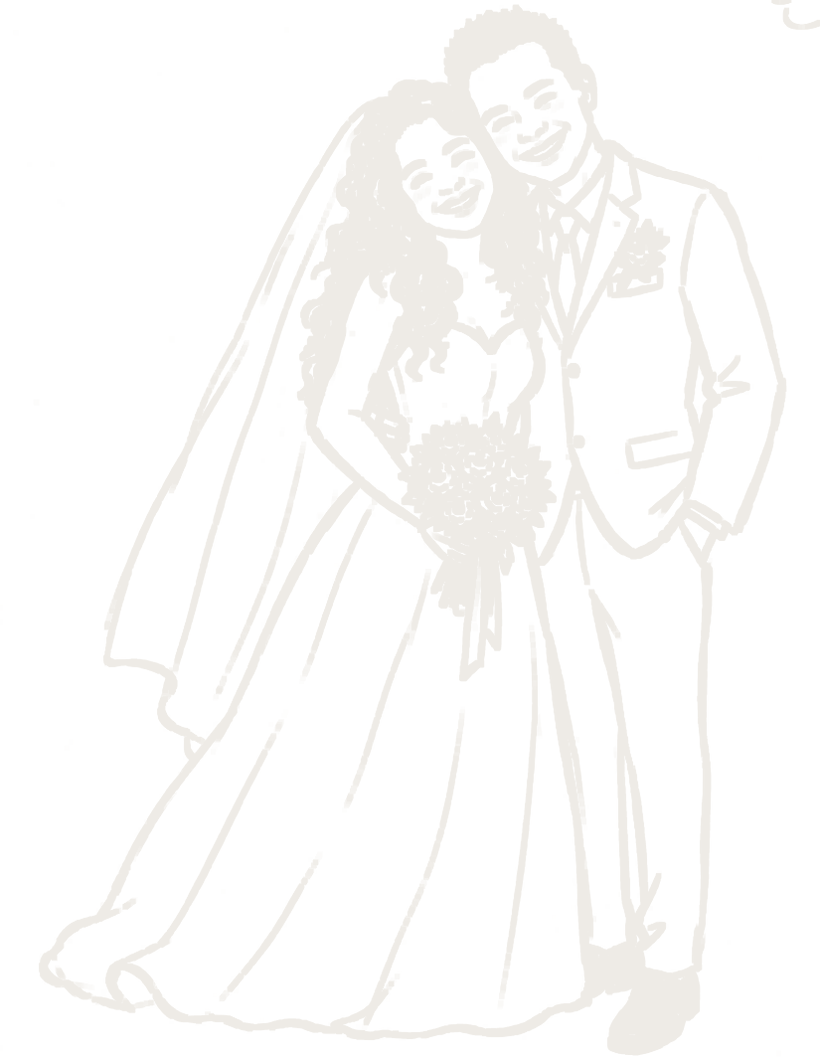
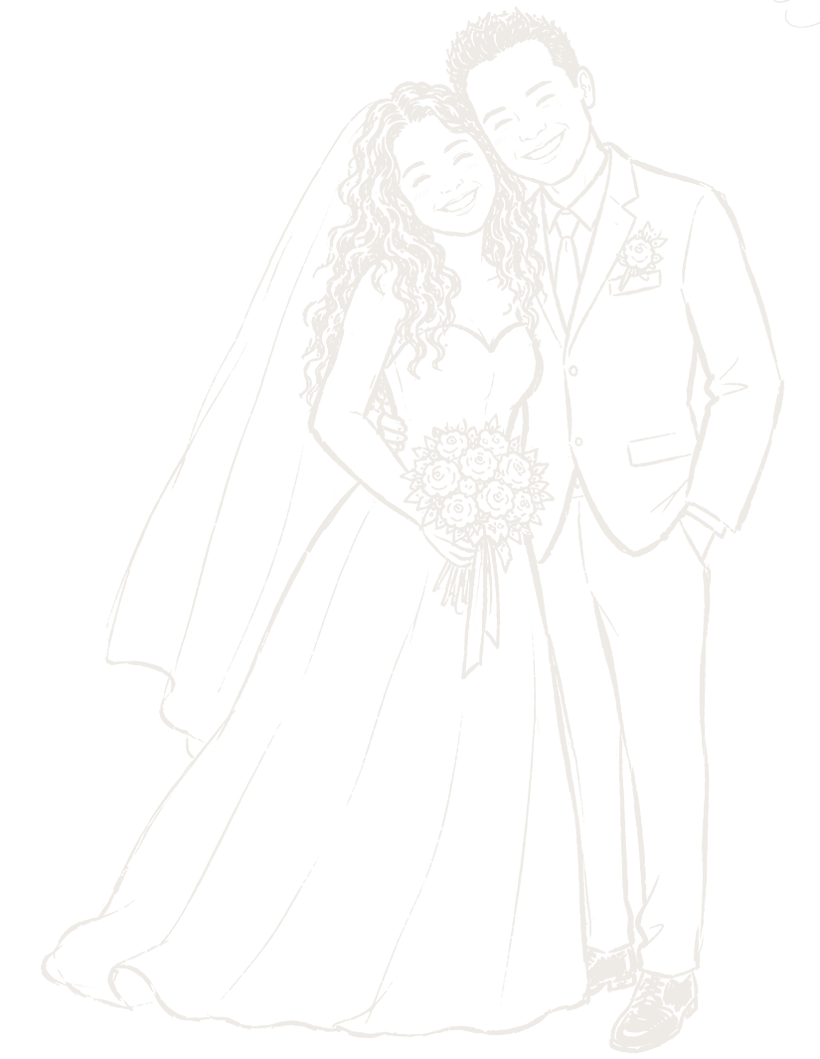
Links bonitos, el trazo fino de la entrada y una página de 404
TRAZO
La ilustración de la entrada vuelve al trazo original, sin engrosar: es
como la prefirieron. A cambio se pinta al 132% en vez del 118%, para que
el velo y el vestido tengan sitio donde leerse a los 132px del
itinerario. Pesa 249 KB en lugar de 199.

LINKS BONITOS
`/paloma-cambron` en vez de `/?i=paloma-cambron`. Lo dije mal antes: esto
no necesita dominio propio, funciona igual en el de Netlify.

Es una reescritura de netlify.toml a /index.html con status 200, así que
la barra de direcciones conserva el link bonito. La regla va al final del
archivo a propósito: Netlify aplica en orden y sirve los archivos que
existen antes de llegar ahí, así que /panel, /robots.txt, /assets/* y
/api/* siguen resolviendo solos. Sólo cae en la regla una ruta de un
tramo que no corresponde a ningún archivo, que es justo la forma de un id.

Como con status 200 no hay query string en el navegador, `personalizar()`
ahora saca el id de la ruta cuando no viene en `?i=`. La forma vieja
sigue funcionando, así que ningún link ya repartido se rompe.

Probado ruta por ruta: /paloma-cambron y /jane-doe personalizan y la
barra conserva el link; /?i=claudia-barrales sigue igual; una ruta
inventada cae en el formulario manual; /panel abre el panel;
/robots.txt y las fotos se sirven; /netlify/* y
/assets/savethedatepics/* siguen en 404.

404
No existía la página, y mis dos reglas de bloqueo apuntaban a /404.html.
Va una en la paleta del sitio, con el monograma y un botón de regreso.
[…]

diff --git a/404.html b/404.html
@@ -1,0 +1,34 @@
+<!doctype html>
+<html lang="es">
+<head>
+<meta charset="utf-8">
+<meta name="viewport" content="width=device-width,initial-scale=1">
+<meta name="robots" content="noindex">
+<title>Jorge &amp; Montse</title>
+<link rel="icon" href="assets/icons/favicon-32.png" sizes="32x32">
+<link rel="stylesheet" href="assets/css/site.css">
+<style>
+  body{min-height:100vh;margin:0;display:flex;align-items:center;justify-content:center;
+       background:#551724;color:#F6F4EE;text-align:center;padding:32px}
+  .caja{display:flex;flex-direction:column;align-items:center;gap:22px;max-width:34ch}
+  .sello{width:52px;height:60px;background:#C9CFB2;
+         -webkit-mask:url('assets/monogram-mark.png') center/contain no-repeat;
+         mask:url('assets/monogram-mark.png') center/contain no-repeat}
+  h1{margin:0;font-family:'Lumiare',sans-serif;font-weight:400;
+     font-size:clamp(28px,5vw,44px);line-height:1.1}
+  p{margin:0;font-family:'NoirEtBlanc',serif;font-size:18px;line-height:1.65;opacity:.88}
+  a{display:inline-block;margin-top:6px;padding:15px 30px 13px;border:1px solid rgba(246,244,238,.45);
+    border-radius:999px;font-family:'NoirEtBlanc',serif;text-transform:uppercase;
+    font-size:14px;letter-spacing:.18em;line-height:1;transition:background .25s,color .25s}
+  a:hover,a:focus-visible{background:#F6F4EE;color:#631B29}
+</style>
+</head>
+<body>
+  <div class="caja">
+    <div class="sello" aria-hidden="true"></div>
+    <h1>Esta página no existe</h1>
+    <p>Puede que el link se haya cortado al copiarlo. Desde la invitación llegas a todo.</p>
+    <a href="/">Ir a la invitación</a>
+  </div>
+</body>
+</html>

diff --git a/index.html b/index.html
@@ -229,9 +229,10 @@
 <!-- La entrada de los novios: el dibujo que hicieron ellos, no un icono.
      Venía en trazo vino sobre papel crema, así que se le quitó el fondo
      por luminancia y se repintó al crema #EEEBE6 de las demás. El trazo
-     se engrosó antes de reducir: a 132px las líneas finas del velo y el
-     vestido se perdían. Original en assets/savethedatepics/. -->
-<img src="assets/ill-couple-entrance-dk.png" alt="" style="max-width:100%;max-height:118%;width:auto;height:auto;display:block">
+     se dejó tal cual, fino, que es como lo prefirieron; a cambio el dibujo
+     se pinta más grande que los demás para que el velo y el vestido se
+     alcancen a leer. Original en assets/savethedatepics/. -->
+<img src="assets/ill-couple-entrance-dk.png" alt="" style="max-width:100%;max-height:132%;width:auto;height:auto;display:block">
 </div><div style="font-family:'NoirEtBlanc',serif;text-transform:uppercase;letter-spacing:.06em;font-size:clamp(18px,1.8vw,25px)">Entrada de los novios</div></div>
 
 <div class="jm-itin-row" data-reveal="1" style="display:grid;grid-template-columns:minmax(84px,132px) clamp(78px,9.5vw,136px) 1fr;gap:clamp(16px,3vw,40px);align-items:center;padding:18px 0;border-top:1px solid rgba(233,229,219,.3)"><div style="font-family:'Blastine',cursive;font-size:clamp(24px,2.7vw,36px);color:#F6F4EE;line-height:1.35">20:30</div><div class="jm-itin-ill" style="display:flex;align-items:center;justify-content:center;height:clamp(78px,9.5vw,132px)">

diff --git a/assets/js/site.js b/assets/js/site.js
@@ -270,9 +270,17 @@
     var caja = $('jm-quien'), campo = $('jm-campo-nombre');
     if (!caja || !campo || !window.fetch) return;
 
+    /* El id puede llegar de dos formas: como ?i=paloma-cambron, o como
+       /paloma-cambron. La segunda es una reescritura de Netlify (status
+       200), así que la barra de direcciones conserva el link bonito y no
+       hay query string que leer: el id viene en la ruta. */
     var id = '';
     try {
       id = (new URLSearchParams(window.location.search).get('i') || '').trim().toLowerCase();
+      if (!id) {
+        var ruta = window.location.pathname.replace(/^\/+|\/+$/g, '').toLowerCase();
+        if (ruta.indexOf('/') === -1 && ruta.indexOf('.') === -1) id = ruta;
+      }
     } catch (e) { return; }
     if (!id || !/^[a-z0-9-]{1,60}$/.test(id)) return;
 

diff --git a/INVITACIONES.md b/INVITACIONES.md
@@ -4,11 +4,23 @@ Uno por invitación. Cada quien recibe el suyo: el sitio lo saluda por su
 nombre, le arma el itinerario que le toca y su confirmación llega ya
 identificada, sin que tenga que escribir su nombre.
 
-El dominio va al principio. Si el sitio queda en `jorgeymontse.com`, el link
-de la primera fila es `https://jorgeymontse.com/?i=jorge-cambron`.
+## Cómo se arma el link
 
-Un link sin `?i=` —o con un id mal copiado— **no se rompe**: el formulario
-vuelve a pedir el nombre a mano, como antes.
+El dominio, diagonal, y el id. Nada más:
+
+```
+https://jorgeymontse.com/paloma-cambron
+https://jorgeymontse.netlify.app/paloma-cambron
+```
+
+Funciona con cualquier dominio, incluido el de Netlify — no hace falta
+comprar uno para que el link se vea así. La barra de direcciones conserva
+el link bonito: por dentro es una reescritura, no un salto.
+
+La forma vieja, `…/?i=paloma-cambron`, sigue funcionando igual.
+
+Un link mal copiado **no se rompe**: el formulario vuelve a pedir el nombre
+a mano, como antes.
 
 ## Cómo leer la columna «civil»
 
@@ -17,18 +29,18 @@ invitación. **Sí** = esa persona ve la ceremonia civil de las 19:30 en su
 itinerario. **No** = ve las fotos con los novios. Quien entre sin link ve lo
 que diga `CONFIG.bodaCivil` en `site.js`, que hoy es «no».
 
-Hoy están todas en «no» porque todavía no se decide. Para cambiar a alguien
-se le pone `civil: true` en `netlify/functions/invitados-datos.mts`.
+Hoy están todas en «no» porque todavía no se decide. Se palomea en la tabla
+de Notion y de ahí lo paso al código.
 
 ## Pruebas
 
-Dos invitaciones de mentiras para que los novios vean las dos versiones del
-itinerario. **Hay que borrarlas antes de publicar en serio.**
+Dos invitaciones de mentiras para ver las dos versiones del itinerario.
+**Hay que borrarlas antes de publicar en serio.**
 
 | Link | Quiénes | Civil |
 |---|---|---|
-| `?i=jane-doe` | Jane Doe, John Doe | **Sí** |
-| `?i=joe-doe` | Joe Doe, Jane Roe | No |
+| `/jane-doe` | Jane Doe, John Doe | **Sí** |
+| `/joe-doe` | Joe Doe, Jane Roe | No |
 
 ## Las de verdad
 
@@ -36,111 +48,111 @@ itinerario. **Hay que borrarlas antes de publicar en serio.**
 
 | # | Link | Se le saluda | Pases | Civil | Quiénes |
 |---|---|---|---|---|---|
-| 1 | `?i=jorge-cambron` | Jorge y Elsa | 2 | No | Jorge Cambrón, Elsa Barrales |
-| 2 | `?i=paulette-cambron` | Paulette | 1 | No | Paulette Cambrón |
-| 3 | `?i=norma-barrales` | Norma | 1 | No | Norma Barrales |
-| 4 | `?i=beatriz-barrales` | Beatriz | 1 | No | Beatriz Barrales |
-| 5 | `?i=mariela-lemus` | Mariela | 1 | No | Mariela Lemus |
-| 6 | `?i=claudia-barrales` | Claudia, Alejandro y Leonardo | 3 | No | Claudia Barrales, Alejandro García, Leonardo |
-| 7 | `?i=mariela-barrales` | Mariela | 1 | No | Mariela Barrales |
-| 8 | `?i=andrea-barrales` | Andrea | 1 | No | Andrea Barrales |
-| 9 | `?i=laura-jandete` | Laura | 1 | No | Laura Jandete |
-| 10 | `?i=juan-alvarez` | Juan | 2 | No | Juan Manuel Álvarez, Invitado |
-| 11 | `?i=juan-alvarez-2` | Juan | 1 | No | Juan Manuel Álvarez |
-| 12 | `?i=martha-barrales` | Martha y Evaristo | 2 | No | Martha Barrales, Evaristo Suárez |
-| 13 | `?i=eduardo-suarez` | Eduardo | 1 | No | Eduardo Suárez |
-| 14 | `?i=victor-suarez` | Victor | 1 | No | Victor Suárez |
-| 15 | `?i=carlos-suarez` | Carlos y Mayela | 2 | No | Carlos Suárez, Mayela |
-| 16 | `?i=maria-melena` | María | 1 | No | María Elena Melena |
-| 17 | `?i=hector-cambron` | Héctor y Blanca | 2 | No | Héctor Cambrón, Blanca García |
-| 18 | `?i=laura-cambron` | Laura y Diego | 2 | No | Laura Cambrón, Diego Zepeda Ornelas |
-| 19 | `?i=miguel-cambron` | Miguel | 2 | No | Miguel Cambrón, Invitada |
-| 20 | `?i=pedro-cambron` | Pedro y Olga | 2 | No | Pedro Cambrón, Olga Villalobos |
-| 21 | `?i=paloma-cambron` | Paloma y Sebastián | 2 | No | Paloma Cambrón, Sebastián Vargas Rumbo |
-| 22 | `?i=homero-cambron` | Homero | 1 | No | Homero Cambrón |
-| 23 | `?i=jahir-cambron` | Jahir y Daniela | 2 | No | Jahir Cambrón, Daniela Villanueva |
-| 24 | `?i=carlos-cambron` | Carlos y Sonia | 2 | No | Carlos Cambrón, Sonia Picazo |
-| 25 | `?i=axel-cambron` | Axel | 1 | No | Axel Cambrón |
-| 26 | `?i=catherine-cambron` | Catherine | 1 | No | Catherine Cambrón |
-| 27 | `?i=nancy-cambron` | Nancy y Adalberto | 2 | No | Nancy Cambrón, Adalberto Dominguez |
-| 28 | `?i=fernando-cambron` | Fernando y Ana | 2 | No | Fernando Cambrón, Ana Rodriguez |
-| 29 | `?i=gabriela-cambron` | Gabriela y Arturo | 2 | No | Gabriela Cambrón, Arturo García |
-| 30 | `?i=elsa-cambron` | Elsa | 1 | No | Elsa Cambrón |
-| 31 | `?i=tania-castro` | Tania | 1 | No | Tania Castro |
-| 32 | `?i=enia-castro` | Enia, Daniel y Cristopher | 3 | No | Enia Castro, Daniel, Cristopher |
-| 33 | `?i=marcia` | Marcia | 2 | No | Marcia, Invitado |
-| 34 | `?i=sebastian-silva` | Sebastián y Esther | 2 | No | Sebastián Silva, Esther Fernández |
-| 35 | `?i=victor-briseno` | Victor | 2 | No | Victor Briseño, invitado |
-| 36 | `?i=max-saling` | Max | 1 | No | Max Saling |
-| 37 | `?i=jorge-bengochea` | Jorge | 1 | No | Jorge Bengochea |
-| 38 | `?i=rodrigo-machorro` | Rodrigo | 1 | No | Rodrigo Machorro |
-| 39 | `?i=alexander-tonilo` | Alexander | 2 | No | Alexander Tonilo, invitado |
-| 40 | `?i=montse-castro` | Montse y Manuel | 2 | No | Montse Castro, Manuel Salgado |
-| 41 | `?i=marco-oseguera` | Marco y Laura | 2 | No | Marco Oseguera, Laura Leal |
-| 42 | `?i=marco-oseguera-elyzabeth` | Marco y Elyzabeth | 2 | No | Marco Oseguera, Elyzabeth Portillo |
-| 43 | `?i=mariana-oseguera` | Mariana y Andrew | 2 | No | Mariana Oseguera, Andrew Chacón |
-| 44 | `?i=lolita-guzman` | Lolita, Cholita y Guerita | 3 | No | Lolita Guzmán, Cholita Guzman, Guerita Guzmán |
-| 45 | `?i=matrin-oseguera` | Matrín y Maricela | 2 | No | Matrín Oseguera, Maricela Arizaga |
-| 46 | `?i=daniela-oseguera` | Daniela | 2 | No | Daniela Oseguera, invitado |
-| 47 | `?i=yesai-oseguera` | Yesai | 2 | No | Yesai Oseguera, invitado |
-| 48 | `?i=andrea-oseguera` | Andrea y Raúl | 2 | No | Andrea Oseguera, Raúl Guerrero |
-| 49 | `?i=miguel-oseguera` | Miguel y Laura | 2 | No | Miguel Ángel Oseguera, Laura Chávez |
-| 50 | `?i=carolina-oseguera` | Carolina, Andrés y Sofía | 3 | No | Carolina Oseguera, Andrés Duran, Sofía Duran |
-| 51 | `?i=miguel-oseguera-alin` | Miguel y Alin | 2 | No | Miguel Oseguera, Alin Zurita |
-| 52 | `?i=manuel-leal` | Manuel y Teresa | 2 | No | Manuel Leal, Teresa Jacinto |
-| 53 | `?i=manuel-leal-areli` | Manuel y Areli | 2 | No | Manuel Leal, Areli |
-| 54 | `?i=teresa-leal` | Teresa y Cristina | 2 | No | Teresa Leal, Cristina |
-| 55 | `?i=raul-leal` | Raúl y Elodia | 2 | No | Raúl Leal, Elodia Guisa |
-| 56 | `?i=ana-leal` | Ana y Manuel | 2 | No | Ana Leal, Manuel García |
-| 57 | `?i=luis-garcia` | Luis y Lizbeth | 2 | No | Luis García, Lizbeth Ramírez |
-| 58 | `?i=emmanuel-garcia` | Emmanuel y Eunice | 2 | No | Emmanuel García, Eunice Rivera |
-| 59 | `?i=mitzi-garcia` | Mitzi y Daniel | 2 | No | Mitzi García, Daniel Cohen |
-| 60 | `?i=robertina-leal` | Robertina | 1 | No | Robertina Leal |
-| 61 | `?i=alvaro-leal` | Álvaro y Angie | 2 | No | Álvaro Leal, Angie |
-| 62 | `?i=martha-leal` | Martha | 1 | No | Martha Leal |
-| 63 | `?i=dante-leal` | Dante | 2 | No | Dante Leal, invitado |
-| 64 | `?i=tamara-leal` | Tamara | 2 | No | Tamara Leal, invitado |
-| 65 | `?i=elva-leal` | Elva | 1 | No | Elva Leal |
-| 66 | `?i=yesira-arizmendi` | Yesira | 1 | No | Yesira Arizmendi |
-| 67 | `?i=yashim-arizmendi` | Yashim y Carla | 2 | No | Yashim Arizmendi, Carla |
-| 68 | `?i=jesian-arizmendi` | Jesian | 2 | No | Jesian Arizmendi, Invitado |
-| 69 | `?i=juanita-leal` | Juanita | 1 | No | Juanita Leal |
-| 70 | `?i=maria-guzman` | María y Ricardo | 2 | No | María de los Ángeles Guzmán, Ricardo Espino |
-| 71 | `?i=abraham-espino` | Abraham | 1 | No | Abraham Espino |
-| 72 | `?i=maria-espino` | María | 1 | No | María de los Ángeles Espino |
-| 73 | `?i=maria-mora` | María | 1 | No | María de los Ángeles Mora |
-| 74 | `?i=vanessa-castillo` | Vanessa y Gabriel | 2 | No | Vanessa Castillo, Gabriel Hernández |
-| 75 | `?i=elena-gutierrez` | Elena y Erick | 2 | No | Elena Gutiérrez, Erick Lujan |
-| 76 | `?i=victor-silva` | Victor | 2 | No | Victor Silva, Invitado |
-| 77 | `?i=lupita-oca` | Lupita y Omar | 2 | No | Lupita Montes de Oca, Omar Contreras |
-| 78 | `?i=melissa-paulin` | Melissa | 2 | No | Melissa Paulín, Invitado |
-| 79 | `?i=montse-romero` | Montse y Salvador | 2 | No | Montse Romero, Salvador Arreola |
-| 80 | `?i=alondra-hernandez` | Alondra | 2 | No | Alondra Hernández, invitado |
-| 81 | `?i=itzel-velazquez` | Itzel | 1 | No | Itzel Velazquez |
-| 82 | `?i=fernando-gutierrez` | Fernando | 2 | No | Fernando Gutiérrez, invitado |
-| 83 | `?i=rosario-leal` | Rosario y Miguel | 2 | No | Rosario Leal, Miguel |
-| 84 | `?i=claudia-lara` | Claudia | 2 | No | Claudia Fernández de Lara, invitado |
-| 85 | `?i=karen-medina` | Karen | 1 | No | Karen Medina |
-| 86 | `?i=ivonne-ambriz` | Ivonne | 1 | No | Ivonne Ambriz |
-| 87 | `?i=paloma-barajas` | Paloma | 2 | No | Paloma Barajas, Invitado |
-| 88 | `?i=valeria-nunez` | Valeria | 1 | No | Valeria Núñez |
-| 89 | `?i=miguel-jimenez` | Miguel | 2 | No | Miguel Jiménez, invitado |
-| 90 | `?i=jonathan-brena` | Jonathan | 1 | No | Jonathan Brena |
-| 91 | `?i=jesus-castro` | Jesús | 1 | No | Jesús Castro |
-| 92 | `?i=escarlette-torres` | Escarlette | 1 | No | Escarlette Torres |
-| 93 | `?i=cielo-gonzalez` | Cielo | 1 | No | Cielo Gónzalez |
-| 94 | `?i=isaias-leal` | Isaias y Gabriela | 2 | No | Isaias Leal, Gabriela |
-| 95 | `?i=sofia-alvizouri` | Sofía | 1 | No | Sofía Alvizouri |
-| 96 | `?i=emiliano-nunez` | Emiliano | 1 | No | Emiliano Núñez |
-| 97 | `?i=maria-bojorges` | María | 1 | No | María Bojorges |
-| 98 | `?i=julieta-villagomez` | Julieta | 1 | No | Julieta Villagomez |
-| 99 | `?i=maria-salas` | María y Jorge | 2 | No | María Elena Salas, Jorge García |
-| 100 | `?i=roxana-solorzano` | Roxana y Abraham | 2 | No | Roxana Solorzano, Abraham García Rojas |
-| 101 | `?i=abraham-garcia` | Abraham y Paulina | 2 | No | Abraham García, Paulina |
-| 102 | `?i=eduardo-diaz` | Eduardo y Veronica | 2 | No | Eduardo Díaz, Veronica Alberto |
-| 103 | `?i=manuel-tapia` | Manuel y Carmen | 2 | No | Manuel Tapia, Carmen Rodríguez |
-| 104 | `?i=fernanda-mariscal` | Fernanda, Rebeca y Ignacio | 3 | No | Fernanda Mariscal, Rebeca Pérez, Ignacio Mariscal |
-| 105 | `?i=alexa-carrillo` | Alexa | 2 | No | Alexa Carrillo, invitado |
+| 1 | `/jorge-cambron` | Jorge y Elsa | 2 | No | Jorge Cambrón, Elsa Barrales |
+| 2 | `/paulette-cambron` | Paulette | 1 | No | Paulette Cambrón |
+| 3 | `/norma-barrales` | Norma | 1 | No | Norma Barrales |
+| 4 | `/beatriz-barrales` | Beatriz | 1 | No | Beatriz Barrales |
+| 5 | `/mariela-lemus` | Mariela | 1 | No | Mariela Lemus |
+| 6 | `/claudia-barrales` | Claudia, Alejandro y Leonardo | 3 | No | Claudia Barrales, Alejandro García, Leonardo |
+| 7 | `/mariela-barrales` | Mariela | 1 | No | Mariela Barrales |
+| 8 | `/andrea-barrales` | Andrea | 1 | No | Andrea Barrales |
+| 9 | `/laura-jandete` | Laura | 1 | No | Laura Jandete |
+| 10 | `/juan-alvarez` | Juan | 2 | No | Juan Manuel Álvarez, Invitado |
+| 11 | `/juan-alvarez-2` | Juan | 1 | No | Juan Manuel Álvarez |
+| 12 | `/martha-barrales` | Martha y Evaristo | 2 | No | Martha Barrales, Evaristo Suárez |
+| 13 | `/eduardo-suarez` | Eduardo | 1 | No | Eduardo Suárez |
+| 14 | `/victor-suarez` | Victor | 1 | No | Victor Suárez |
+| 15 | `/carlos-suarez` | Carlos y Mayela | 2 | No | Carlos Suárez, Mayela |
+| 16 | `/maria-melena` | María | 1 | No | María Elena Melena |
+| 17 | `/hector-cambron` | Héctor y Blanca | 2 | No | Héctor Cambrón, Blanca García |
+| 18 | `/laura-cambron` | Laura y Diego | 2 | No | Laura Cambrón, Diego Zepeda Ornelas |
+| 19 | `/miguel-cambron` | Miguel | 2 | No | Miguel Cambrón, Invitada |
+| 20 | `/pedro-cambron` | Pedro y Olga | 2 | No | Pedro Cambrón, Olga Villalobos |
+| 21 | `/paloma-cambron` | Paloma y Sebastián | 2 | No | Paloma Cambrón, Sebastián Vargas Rumbo |
+| 22 | `/homero-cambron` | Homero | 1 | No | Homero Cambrón |
+| 23 | `/jahir-cambron` | Jahir y Daniela | 2 | No | Jahir Cambrón, Daniela Villanueva |
+| 24 | `/carlos-cambron` | Carlos y Sonia | 2 | No | Carlos Cambrón, Sonia Picazo |
+| 25 | `/axel-cambron` | Axel | 1 | No | Axel Cambrón |
+| 26 | `/catherine-cambron` | Catherine | 1 | No | Catherine Cambrón |
+| 27 | `/nancy-cambron` | Nancy y Adalberto | 2 | No | Nancy Cambrón, Adalberto Dominguez |
+| 28 | `/fernando-cambron` | Fernando y Ana | 2 | No | Fernando Cambrón, Ana Rodriguez |
+| 29 | `/gabriela-cambron` | Gabriela y Arturo | 2 | No | Gabriela Cambrón, Arturo García |
+| 30 | `/elsa-cambron` | Elsa | 1 | No | Elsa Cambrón |
+| 31 | `/tania-castro` | Tania | 1 | No | Tania Castro |
+| 32 | `/enia-castro` | Enia, Daniel y Cristopher | 3 | No | Enia Castro, Daniel, Cristopher |
+| 33 | `/marcia` | Marcia | 2 | No | Marcia, Invitado |
+| 34 | `/sebastian-silva` | Sebastián y Esther | 2 | No | Sebastián Silva, Esther Fernández |
+| 35 | `/victor-briseno` | Victor | 2 | No | Victor Briseño, invitado |
+| 36 | `/max-saling` | Max | 1 | No | Max Saling |
+| 37 | `/jorge-bengochea` | Jorge | 1 | No | Jorge Bengochea |
+| 38 | `/rodrigo-machorro` | Rodrigo | 1 | No | Rodrigo Machorro |
+| 39 | `/alexander-tonilo` | Alexander | 2 | No | Alexander Tonilo, invitado |
+| 40 | `/montse-castro` | Montse y Manuel | 2 | No | Montse Castro, Manuel Salgado |
+| 41 | `/marco-oseguera` | Marco y Laura | 2 | No | Marco Oseguera, Laura Leal |
+| 42 | `/marco-oseguera-elyzabeth` | Marco y Elyzabeth | 2 | No | Marco Oseguera, Elyzabeth Portillo |
+| 43 | `/mariana-oseguera` | Mariana y Andrew | 2 | No | Mariana Oseguera, Andrew Chacón |
+| 44 | `/lolita-guzman` | Lolita, Cholita y Guerita | 3 | No | Lolita Guzmán, Cholita Guzman, Guerita Guzmán |
+| 45 | `/matrin-oseguera` | Matrín y Maricela | 2 | No | Matrín Oseguera, Maricela Arizaga |
+| 46 | `/daniela-oseguera` | Daniela | 2 | No | Daniela Oseguera, invitado |
+| 47 | `/yesai-oseguera` | Yesai | 2 | No | Yesai Oseguera, invitado |
+| 48 | `/andrea-oseguera` | Andrea y Raúl | 2 | No | Andrea Oseguera, Raúl Guerrero |
+| 49 | `/miguel-oseguera` | Miguel y Laura | 2 | No | Miguel Ángel Oseguera, Laura Chávez |
+| 50 | `/carolina-oseguera` | Carolina, Andrés y Sofía | 3 | No | Carolina Oseguera, Andrés Duran, Sofía Duran |
+| 51 | `/miguel-oseguera-alin` | Miguel y Alin | 2 | No | Miguel Oseguera, Alin Zurita |
+| 52 | `/manuel-leal` | Manuel y Teresa | 2 | No | Manuel Leal, Teresa Jacinto |
+| 53 | `/manuel-leal-areli` | Manuel y Areli | 2 | No | Manuel Leal, Areli |
+| 54 | `/teresa-leal` | Teresa y Cristina | 2 | No | Teresa Leal, Cristina |
+| 55 | `/raul-leal` | Raúl y Elodia | 2 | No | Raúl Leal, Elodia Guisa |
+| 56 | `/ana-leal` | Ana y Manuel | 2 | No | Ana Leal, Manuel García |
+| 57 | `/luis-garcia` | Luis y Lizbeth | 2 | No | Luis García, Lizbeth Ramírez |
+| 58 | `/emmanuel-garcia` | Emmanuel y Eunice | 2 | No | Emmanuel García, Eunice Rivera |
+| 59 | `/mitzi-garcia` | Mitzi y Daniel | 2 | No | Mitzi García, Daniel Cohen |
+| 60 | `/robertina-leal` | Robertina | 1 | No | Robertina Leal |
+| 61 | `/alvaro-leal` | Álvaro y Angie | 2 | No | Álvaro Leal, Angie |
+| 62 | `/martha-leal` | Martha | 1 | No | Martha Leal |
+| 63 | `/dante-leal` | Dante | 2 | No | Dante Leal, invitado |
+| 64 | `/tamara-leal` | Tamara | 2 | No | Tamara Leal, invitado |
+| 65 | `/elva-leal` | Elva | 1 | No | Elva Leal |
+| 66 | `/yesira-arizmendi` | Yesira | 1 | No | Yesira Arizmendi |
+| 67 | `/yashim-arizmendi` | Yashim y Carla | 2 | No | Yashim Arizmendi, Carla |
+| 68 | `/jesian-arizmendi` | Jesian | 2 | No | Jesian Arizmendi, Invitado |
+| 69 | `/juanita-leal` | Juanita | 1 | No | Juanita Leal |
+| 70 | `/maria-guzman` | María y Ricardo | 2 | No | María de los Ángeles Guzmán, Ricardo Espino |
+| 71 | `/abraham-espino` | Abraham | 1 | No | Abraham Espino |
+| 72 | `/maria-espino` | María | 1 | No | María de los Ángeles Espino |
+| 73 | `/maria-mora` | María | 1 | No | María de los Ángeles Mora |
+| 74 | `/vanessa-castillo` | Vanessa y Gabriel | 2 | No | Vanessa Castillo, Gabriel Hernández |
+| 75 | `/elena-gutierrez` | Elena y Erick | 2 | No | Elena Gutiérrez, Erick Lujan |
+| 76 | `/victor-silva` | Victor | 2 | No | Victor Silva, Invitado |
+| 77 | `/lupita-oca` | Lupita y Omar | 2 | No | Lupita Montes de Oca, Omar Contreras |
+| 78 | `/melissa-paulin` | Melissa | 2 | No | Melissa Paulín, Invitado |
+| 79 | `/montse-romero` | Montse y Salvador | 2 | No | Montse Romero, Salvador Arreola |
+| 80 | `/alondra-hernandez` | Alondra | 2 | No | Alondra Hernández, invitado |
+| 81 | `/itzel-velazquez` | Itzel | 1 | No | Itzel Velazquez |
+| 82 | `/fernando-gutierrez` | Fernando | 2 | No | Fernando Gutiérrez, invitado |
+| 83 | `/rosario-leal` | Rosario y Miguel | 2 | No | Rosario Leal, Miguel |
+| 84 | `/claudia-lara` | Claudia | 2 | No | Claudia Fernández de Lara, invitado |
+| 85 | `/karen-medina` | Karen | 1 | No | Karen Medina |
+| 86 | `/ivonne-ambriz` | Ivonne | 1 | No | Ivonne Ambriz |
+| 87 | `/paloma-barajas` | Paloma | 2 | No | Paloma Barajas, Invitado |
+| 88 | `/valeria-nunez` | Valeria | 1 | No | Valeria Núñez |
+| 89 | `/miguel-jimenez` | Miguel | 2 | No | Miguel Jiménez, invitado |
+| 90 | `/jonathan-brena` | Jonathan | 1 | No | Jonathan Brena |
+| 91 | `/jesus-castro` | Jesús | 1 | No | Jesús Castro |
+| 92 | `/escarlette-torres` | Escarlette | 1 | No | Escarlette Torres |
+| 93 | `/cielo-gonzalez` | Cielo | 1 | No | Cielo Gónzalez |
+| 94 | `/isaias-leal` | Isaias y Gabriela | 2 | No | Isaias Leal, Gabriela |
+| 95 | `/sofia-alvizouri` | Sofía | 1 | No | Sofía Alvizouri |
+| 96 | `/emiliano-nunez` | Emiliano | 1 | No | Emiliano Núñez |
+| 97 | `/maria-bojorges` | María | 1 | No | María Bojorges |
+| 98 | `/julieta-villagomez` | Julieta | 1 | No | Julieta Villagomez |
+| 99 | `/maria-salas` | María y Jorge | 2 | No | María Elena Salas, Jorge García |
+| 100 | `/roxana-solorzano` | Roxana y Abraham | 2 | No | Roxana Solorzano, Abraham García Rojas |
+| 101 | `/abraham-garcia` | Abraham y Paulina | 2 | No | Abraham García, Paulina |
+| 102 | `/eduardo-diaz` | Eduardo y Veronica | 2 | No | Eduardo Díaz, Veronica Alberto |
+| 103 | `/manuel-tapia` | Manuel y Carmen | 2 | No | Manuel Tapia, Carmen Rodríguez |
+| 104 | `/fernanda-mariscal` | Fernanda, Rebeca y Ignacio | 3 | No | Fernanda Mariscal, Rebeca Pérez, Ignacio Mariscal |
+| 105 | `/alexa-carrillo` | Alexa | 2 | No | Alexa Carrillo, invitado |
 
 ## Notas
 

diff --git a/README.md b/README.md
@@ -86,7 +86,7 @@ del commit que los añadió.
 
 ## Invitaciones personalizadas
 
-Cada invitación tiene su link: `…/?i=jorge-cambron`. Con él, la sección de
+Cada invitación tiene su link: `…/jorge-cambron`. Con él, la sección de
 confirmar ya sabe quién es —lo saluda por su nombre, le dice cuántos pases
 trae y le prellena a sus acompañantes— y la confirmación llega identificada
 sin que nadie escriba su nombre.
@@ -100,6 +100,11 @@ dejar a nadie sin poder confirmar.
   sitio nunca descarga la lista completa — le pregunta a `/api/invitacion`
   por un id y sólo recibe esa invitación.
 - Los links para repartir están en [`INVITACIONES.md`](INVITACIONES.md).
+- El link bonito (`/jorge-cambron`) es una reescritura de Netlify a
+  `/index.html` con status 200, así que la barra de direcciones lo conserva.
+  Como entonces no hay `?i=` que leer, `personalizar()` en `site.js` saca el
+  id de la ruta cuando no viene en la query. La forma vieja sigue sirviendo.
+  Funciona con cualquier dominio, el de Netlify incluido.
 - Para cambiar la lista se edita el `.mts` y se regenera el `.md`.
 - **La ceremonia civil se elige invitación por invitación.** A la civil no va
   todo el mundo, así que cada invitación trae un campo `civil`: si es `true`,
